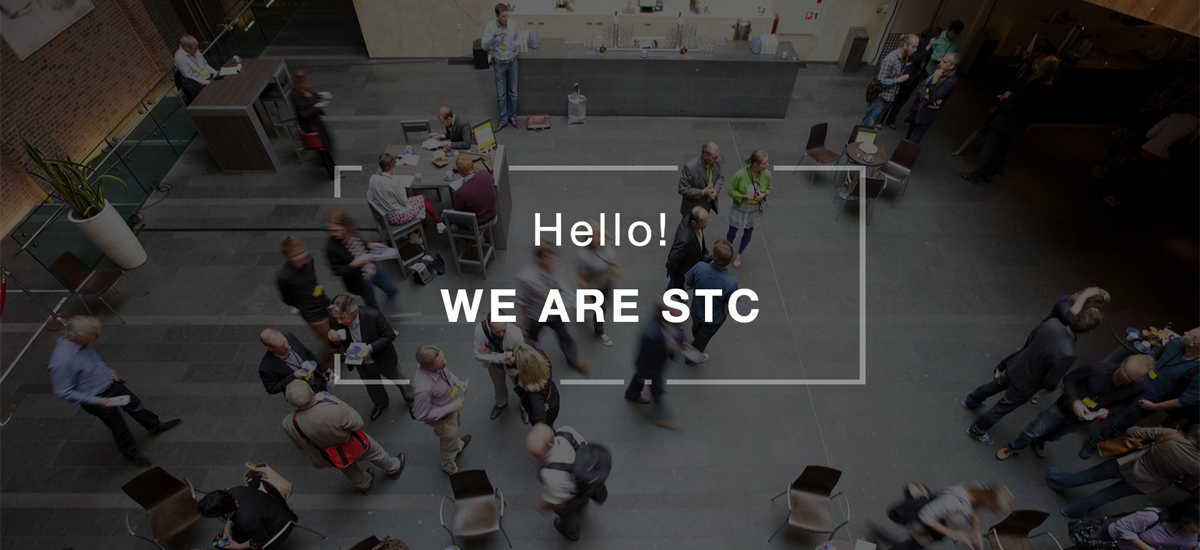
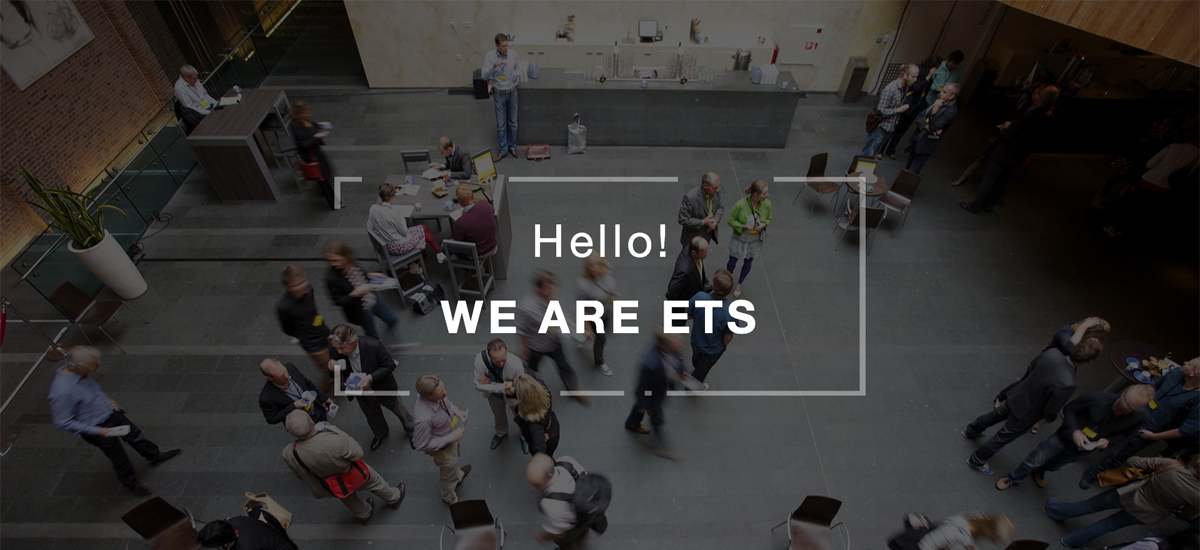
Change STC to ETS

diff --git a/src/components/HomeBanner1.vue b/src/components/HomeBanner1.vue
@@ -54,22 +54,22 @@ export default {
         {
           icon: '/imgs/home_fwzz_zy.png',
           title: '专业',
-          subtitle: 'STC集团拥有一支成熟、高效的管理团队，核心成员大多曾在俄罗斯长期工作、学习，员工也拥有极为丰富的从业经验。'
+          subtitle: 'ETS集团拥有一支成熟、高效的管理团队，核心成员大多曾在俄罗斯长期工作、学习，员工也拥有极为丰富的从业经验。'
         },
         {
           icon: '/imgs/home_fwzz_gx.png',
           title: '高效',
-          subtitle: 'STC集团拥有一支成熟、高效的管理团队，核心成员大多曾在俄罗斯长期工作、学习，员工也拥有极为丰富的从业经验。'
+          subtitle: 'ETS集团拥有一支成熟、高效的管理团队，核心成员大多曾在俄罗斯长期工作、学习，员工也拥有极为丰富的从业经验。'
         },
         {
           icon: '/imgs/home_fwzz_hl.png',
           title: '互利',
-          subtitle: 'STC集团拥有一支成熟、高效的管理团队，核心成员大多曾在俄罗斯长期工作、学习，员工也拥有极为丰富的从业经验。'
+          subtitle: 'ETS集团拥有一支成熟、高效的管理团队，核心成员大多曾在俄罗斯长期工作、学习，员工也拥有极为丰富的从业经验。'
         },
         {
           icon: '/imgs/home_fwzz_zx.png',
           title: '重信',
-          subtitle: 'STC集团拥有一支成熟、高效的管理团队，核心成员大多曾在俄罗斯长期工作、学习，员工也拥有极为丰富的从业经验。'
+          subtitle: 'ETS集团拥有一支成熟、高效的管理团队，核心成员大多曾在俄罗斯长期工作、学习，员工也拥有极为丰富的从业经验。'
         }
       ]
     }

diff --git a/src/components/HomeBanner2.vue b/src/components/HomeBanner2.vue
@@ -10,7 +10,7 @@
       商旅展会
     </p>
     <p class="sub-title">
-      STC依托在俄联邦及周边国家广泛的业务领域、丰富的渠道资源，与俄各级政府机关、各类大中型企业、专业院校及科研机构均保持有较为密切的联系或业务往来，便于为国内各类单位、个人赴俄开展考察、洽谈、商务拓展等活动提供全方位的服务。
+      ETS依托在俄联邦及周边国家广泛的业务领域、丰富的渠道资源，与俄各级政府机关、各类大中型企业、专业院校及科研机构均保持有较为密切的联系或业务往来，便于为国内各类单位、个人赴俄开展考察、洽谈、商务拓展等活动提供全方位的服务。
     </p>
     <v-layout style="margin-top: 40px">
      <v-flex>

diff --git a/src/components/HomeBanner4.vue b/src/components/HomeBanner4.vue
@@ -7,7 +7,7 @@
       我们的成员
     </p>
     <p class="sub-title">
-      俄罗斯STC集团拥有一支成熟、高效的管理团队，核心成员大多曾在俄罗斯长期工作、学习，员工也拥有极为丰富的从业经验。公司自创立以来，着力打造首屈一指的中俄商业服务品牌，力求为中俄两国企业及其他机构提供更为多元、有效的服务。
+      俄罗斯ETS集团拥有一支成熟、高效的管理团队，核心成员大多曾在俄罗斯长期工作、学习，员工也拥有极为丰富的从业经验。公司自创立以来，着力打造首屈一指的中俄商业服务品牌，力求为中俄两国企业及其他机构提供更为多元、有效的服务。
     </p>
   </section>
 </template>

diff --git a/src/components/ExpoBanner1.vue b/src/components/ExpoBanner1.vue
@@ -9,7 +9,7 @@
       历年会展
     </p>
     <p class="sub-title">
-      在会展服务方面，STC商旅与会展多年以来一直从事赴俄中国展览团组的接待业务及展位搭建等相关配套服务。
+      在会展服务方面，ETS商旅与会展多年以来一直从事赴俄中国展览团组的接待业务及展位搭建等相关配套服务。
     </p>
     <v-layout style="margin-top: 40px">
      <v-flex>

diff --git a/src/components/ExpoBanner2.vue b/src/components/ExpoBanner2.vue
@@ -6,7 +6,7 @@
       会展类型
     </p>
     <p class="sub-title">
-      在会展服务方面，STC商旅与会展多年以来一直从事赴俄中国展览团组的接待业务及展位搭建等相关配套服务。
+      在会展服务方面，ETS商旅与会展多年以来一直从事赴俄中国展览团组的接待业务及展位搭建等相关配套服务。
     </p>
     <v-layout style="margin-top: 40px">
      <v-flex>

diff --git a/src/components/TopBar.vue b/src/components/TopBar.vue
@@ -7,7 +7,7 @@
       <span
         class="topbar-logo"
       >
-        STC
+        Expo Tour Service
       </span>
       <div
         class="topbar-menu"
